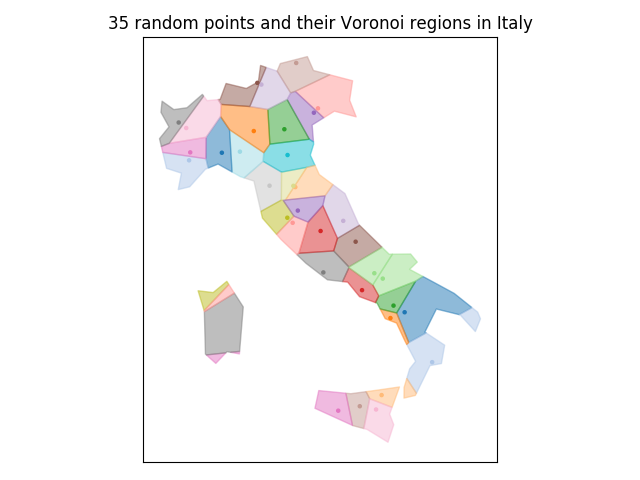
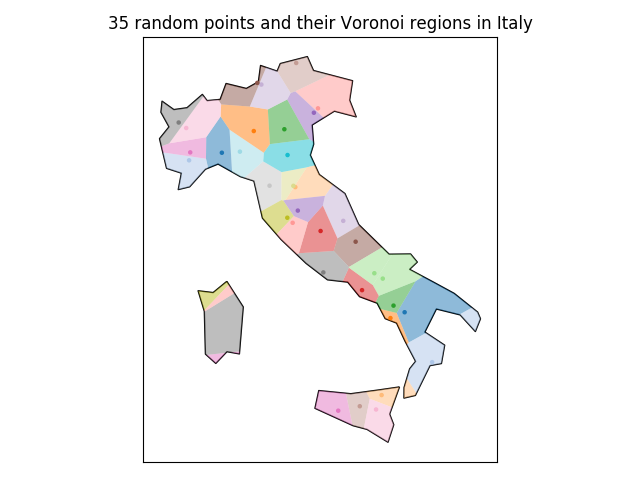
fixed bug in _plot_polygon_collection_with_color added area calculation added new example

diff --git a/examples/random_points_and_area.py b/examples/random_points_and_area.py
@@ -1,0 +1,70 @@
+import logging
+
+import matplotlib.pyplot as plt
+import numpy as np
+import geopandas as gpd
+
+from geovoronoi import coords_to_points, points_to_coords, voronoi_regions_from_coords, calculate_polygon_areas
+from geovoronoi.plotting import subplot_for_map, plot_voronoi_polys_with_points_in_area
+
+
+logging.basicConfig(level=logging.INFO)
+tmtoolkit_log = logging.getLogger('geovoronoi')
+tmtoolkit_log.setLevel(logging.INFO)
+tmtoolkit_log.propagate = True
+
+N_POINTS = 20
+COUNTRY = 'Spain'
+
+np.random.seed(123)
+
+print('loading country `%s` from naturalearth_lowres' % COUNTRY)
+world = gpd.read_file(gpd.datasets.get_path('naturalearth_lowres'))
+area = world[world.name == COUNTRY]
+assert len(area) == 1
+
+print('CRS:', area.crs)   # gives epsg:4326 -> WGS 84
+
+area = area.to_crs(epsg=3395)    # convert to World Mercator CRS
+area_shape = area.iloc[0].geometry   # get the Polygon
+
+# generate some random points within the bounds
+minx, miny, maxx, maxy = area_shape.bounds
+
+randx = np.random.uniform(minx, maxx, N_POINTS)
+randy = np.random.uniform(miny, maxy, N_POINTS)
+coords = np.vstack((randx, randy)).T
+
+# use only the points inside the geographic area
+pts = [p for p in coords_to_points(coords) if p.within(area_shape)]  # converts to shapely Point
+
+print('will use %d of %d randomly generated points that are inside geographic area' % (len(pts), N_POINTS))
+coords = points_to_coords(pts)   # convert back to simple NumPy coordinate array
+
+del pts
+
+#
+# calculate the Voronoi regions, cut them with the geographic area shape and assign the points to them
+#
+
+poly_shapes, pts, poly_to_pt_assignments = voronoi_regions_from_coords(coords, area_shape)
+
+poly_areas = calculate_polygon_areas(poly_shapes, m2_to_km2=True)   # converts m² to km²
+
+#
+# plotting
+#
+
+fig, ax = subplot_for_map(show_x_axis=True, show_y_axis=True)
+
+voronoi_labels = ['%d km²' % round(a) for a in poly_areas]
+plot_voronoi_polys_with_points_in_area(ax, area_shape, poly_shapes, coords, poly_to_pt_assignments,
+                                       voronoi_labels=voronoi_labels, voronoi_label_fontsize=7,
+                                       voronoi_label_color='gray')
+
+ax.set_title('%d random points and their Voronoi regions in %s' % (len(pts), COUNTRY))
+
+plt.tight_layout()
+plt.savefig('random_points_and_area.png')
+plt.show()
+

diff --git a/geovoronoi/plotting.py b/geovoronoi/plotting.py
@@ -164,7 +164,7 @@ def _plot_polygon_collection_with_color(ax, geoms, color=None, **kwargs):
     if 'markersize' in kwargs:
         del kwargs['markersize']
 
-    collection = PatchCollection([PolygonPatch(poly) for poly, c in zip(geoms, color)],
+    collection = PatchCollection([PolygonPatch(poly) for poly in geoms],
                                  color=color, **kwargs)
 
     ax.add_collection(collection, autolim=True)

diff --git a/geovoronoi/_geom.py b/geovoronoi/_geom.py
@@ -72,3 +72,10 @@ def polygon_around_center(points, center=None, fix_nan_angles=True):
         else:
             return None
 
+
+def calculate_polygon_areas(poly_shapes, m2_to_km2=False):
+    areas = np.array([p.area for p in poly_shapes])
+    if m2_to_km2:
+        return areas / 1000000    # = 1000²
+    else:
+        return areas

diff --git a/geovoronoi/__init__.py b/geovoronoi/__init__.py
@@ -1,6 +1,6 @@
 from ._voronoi import (coords_to_points, points_to_coords, voronoi_regions_from_coords, polygon_lines_from_voronoi,
                        polygon_shapes_from_voronoi_lines, assign_points_to_voronoi_polygons)
-
+from ._geom import calculate_polygon_areas
 
 __title__ = 'geovoronoi'
 __version__ = '0.1.0'
